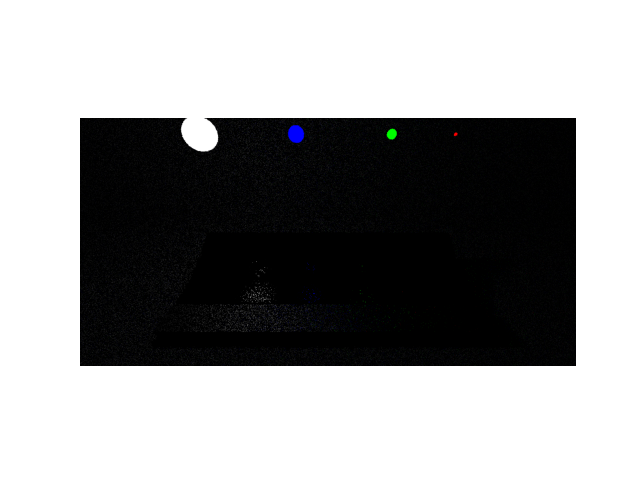
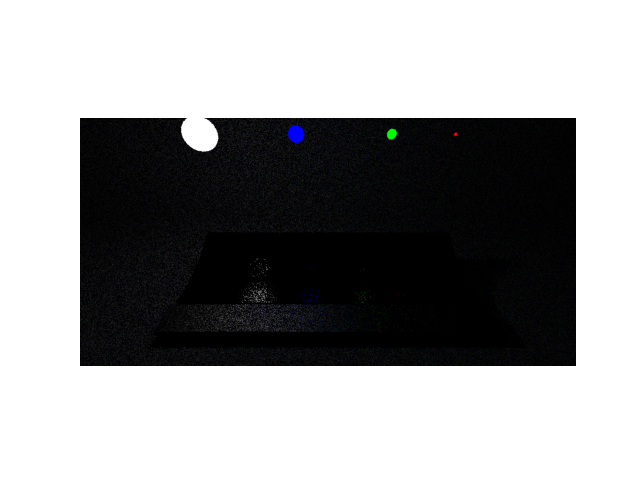
Added MIS

Changed region(s): [[0.3125, 0.5938, 0.5, 0.6875]]

diff --git a/A3/A3_codebase/taichi_tracer/renderer.py b/A3/A3_codebase/taichi_tracer/renderer.py
@@ -198,7 +198,7 @@ class A2Renderer:
 
             # Check for direct hit on light
             if material.Ke.norm() > 0:
-                color = material.Ke  # TODO check for correctness
+                color = material.Ke
 
             else:
                 shading_point = ray.origin + ray.direction * hit_data.distance  # find intersection point
@@ -258,7 +258,7 @@ class A2Renderer:
                         color = l_e * BRDF.evaluate_brdf_factor(material, w_i, normal)
 
                 # Shadow ray occluded by mesh light
-                else:  # TODO check for correctness
+                else:
                     shadow_material = self.scene_data.material_library.materials[shadow_hit_data.material_id]
                     if shadow_material.Ke.norm() > 0:
                         l_e = shadow_material.Ke
@@ -426,13 +426,12 @@ class A3Renderer:
         color = tm.vec3(0.)
 
         if self.sample_mode[None] == int(self.SampleMode.UNIFORM) or self.sample_mode[None] == int(self.SampleMode.BRDF):
-            # Uniform or BRDF just calls the A2 renderer
-            # TODO: Check if A2 renderer is complete
+            # Call A2 renderer
             color = self.a2_renderer.shade_ray(ray)
+
         else:
             if self.sample_mode[None] == int(self.SampleMode.LIGHT):
 
-                # TODO: Implement Light Importance Sampling
                 hit_data = self.scene_data.ray_intersector.query_ray(ray)
 
                 if hit_data.is_hit:
@@ -454,10 +453,7 @@ class A3Renderer:
                         # Get shadow hit data
                         shadow_hit_data = self.scene_data.ray_intersector.query_ray(shadow_ray)
 
-                        if not shadow_hit_data.is_hit:
-                            pass
-
-                        else:
+                        if shadow_hit_data.is_hit:
                             shadow_hit_material = self.scene_data.material_library.materials[shadow_hit_data.material_id]
 
                             if shadow_hit_material.Ke.norm() > 0 and shadow_hit_data.triangle_id == triangle_id:
@@ -467,20 +463,13 @@ class A3Renderer:
                                 light_cos = tm.max(tm.dot(shadow_hit_data.normal, -w_i), 0)
                                 p_light = self.scene_data.mesh_light_sampler.evaluate_probability()
 
-                                shadow_hit_point = shadow_ray.origin + shadow_ray.direction * shadow_hit_data.distance
-                                distance = tm.pow((hit_point - shadow_hit_point).norm(), 2)
-
-                                color = l_e * f_r * hit_cos * light_cos / (p_light * distance)
+                                color = l_e * f_r * hit_cos * light_cos / (p_light * (shadow_hit_data.distance ** 2))
 
                 else:
-                    # TODO how to shade? using same computation as BRDF?
-                    # l_e = self.scene_data.environment.query_ray(ray)
-                    # f_r = BRDF.evaluate_brdf()
 
                     color = self.scene_data.environment.query_ray(ray)
 
             if self.sample_mode[None] == int(self.SampleMode.MIS):
-                pass
                 hit_data = self.scene_data.ray_intersector.query_ray(ray)
 
                 if hit_data.is_hit:
@@ -495,11 +484,12 @@ class A3Renderer:
                         hit_point = ray.origin + ray.direction * hit_data.distance
                         hit_material = self.scene_data.material_library.materials[hit_data.material_id]
 
-                        # TODO Sample incident direction depending on MIS probability
                         u = ti.random()
                         w_i = tm.vec3(0)
-                        if u < self.mis_plight:
-                            w_i, triangle_id = self.scene_data.mesh_light_sampler.sample_mesh_lights()
+                        triangle_id = 0
+
+                        if u < self.mis_plight[None]:
+                            w_i, triangle_id = self.scene_data.mesh_light_sampler.sample_mesh_lights(hit_point)
                         else:
                             w_i = BRDF.sample_direction(hit_material, -ray.direction, hit_data.normal)
 
@@ -510,26 +500,32 @@ class A3Renderer:
 
                         shadow_hit_data = self.scene_data.ray_intersector.query_ray(shadow_ray)
 
-                        # TODO implement shading for LIS
-                        # TODO implement shading for BRDF
+                        l_e = tm.vec3(0)
                         if not shadow_hit_data.is_hit:
-                            # TODO query environment. Should the computation be the same for LIS and BRDF?
                             l_e = self.scene_data.environment.query_ray(ray)
 
                         else:
                             shadow_hit_material = self.scene_data.material_library.materials[shadow_hit_data.material_id]
 
-                            # TODO check if occluded by mesh light
                             if shadow_hit_material.Ke.norm() > 0:
-                                if u < self.mis_plight:
-                                    # TODO if LIS and occluded by mesh light and triangles match
+                                if u < self.mis_plight[None]:
                                     if shadow_hit_data.triangle_id == triangle_id:
-                                        pass
+                                        l_e = shadow_hit_material.Ke
                                 else:
-                                    # TODO
-                                    pass
-                            
-                            pass
+                                    l_e = shadow_hit_material.Ke
+
+                        f_r = BRDF.evaluate_brdf(hit_material, -ray.direction, w_i, hit_data.normal)
+                        hit_cos = tm.max(tm.dot(hit_data.normal, w_i), 0)
+                        p_mis = self.mis_plight[None] * self.scene_data.mesh_light_sampler.evaluate_probability() + self.mis_pbrdf[None] * BRDF.evaluate_probability(hit_material, -ray.direction, w_i, hit_data.normal)
+
+                        if shadow_hit_data.is_hit:
+                            # Compute final color
+                            if u < self.mis_plight[None]:
+                                light_cos = tm.max(tm.dot(shadow_hit_data.normal, -w_i), 0)
+                                color = l_e * f_r * hit_cos * light_cos / (p_mis * (shadow_hit_data.distance ** 2))
+                            else:
+
+                                color = l_e * f_r * hit_cos / p_mis
 
                 else:
                     color = self.scene_data.environment.query_ray(ray)

diff --git a/A3/A3_codebase/taichi_tracer/sampler.py b/A3/A3_codebase/taichi_tracer/sampler.py
@@ -210,7 +210,6 @@ class MeshLightSampler:
 
     @ti.func
     def compute_triangle_area(self, v0: tm.vec3, v1: tm.vec3, v2: tm.vec3) -> float:
-        # TODO: Compute Area of a triangle given the 3 vertices
         ab = v1 - v0
         ac = v2 - v0
 
@@ -218,55 +217,36 @@ class MeshLightSampler:
 
     @ti.kernel
     def compute_cdf(self):
-        pass
-        # TODO: Compute the CDF of your emissive triangles
-        # self.cdf[i] = ...
 
         cdf_sum = 0.0
         ti.loop_config(serialize=True)
         for i in range(self.n_emissive_triangles):
-            cdf_sum += self.emissive_triangle_areas[i] / self.total_emissive_area[None]
-            self.cdf[i] = cdf_sum
+            cdf_sum += self.emissive_triangle_areas[i]
+            self.cdf[i] = cdf_sum / self.total_emissive_area[None]
 
     @ti.func
     def sample_emissive_triangle(self) -> int:
-        # TODO: Sample an emissive triangle using the CDF
-        # return the **index** of the triangle
-        #
-        # placeholder
-
         xi_triangle = ti.random()  # get random variable [0, 1]
 
-        # Binary search - Algorithm inspired by GeeksForGeeks binary search implementation
-        # low = 0
-        # high = self.n_emissive_triangles - 1
-        #
-        # while low <= high:
-        #     mid = low + (high - low) // 2
-        #
-        #     if self.cdf[mid] >= xi_triangle:  # Look to the left of mid
-        #         high = mid
-        #     else:
-        #         low = mid + 1  # Look to the right of mid
+        # Binary search over cdf values
+        left = 0
+        right = self.n_emissive_triangles - 1
+        while left < right:
+            mid = (left + right) // 2
+            if self.cdf[mid] >= xi_triangle:
+                right = mid
+            else:
+                left = mid + 1
 
-        # TODO replace with binary search
-        index = 0
-        for i in range(self.n_emissive_triangles):
-            if self.cdf[i] >= xi_triangle:
-                index = i
-                break
-
-        return index
+        return left
 
     @ti.func
     def evaluate_probability(self) -> float:
-        # TODO: return the probability of a sample
         return 1.0 / self.total_emissive_area[None]
 
     @ti.func
     def sample_mesh_lights(self, hit_point: tm.vec3):
         sampled_light_triangle_idx = self.sample_emissive_triangle()
-        # sampled_light_triangle_idx = 0  TODO debugging
 
         sampled_light_triangle = self.emissive_triangle_ids[sampled_light_triangle_idx]
 
@@ -281,7 +261,6 @@ class MeshLightSampler:
         # https://www.pbr-book.org/4ed/Shapes/Triangle_Meshes#Sampling
         # https://www.pbr-book.org/4ed/Shapes/Triangle_Meshes#SampleUniformTriangle
 
-        # TODO: Sample a direction towards your mesh light
         # given your sampled triangle vertices
         # generate random barycentric coordinates
         xi_0 = ti.random()
@@ -290,7 +269,7 @@ class MeshLightSampler:
         b0 = 0.0
         b1 = 0.0
 
-        if xi_0 > xi_1:
+        if xi_0 < xi_1:
             b0 = xi_0 / 2.0
             b1 = xi_1 - b0
         else:
@@ -299,12 +278,9 @@ class MeshLightSampler:
 
         b2 = 1.0 - b0 - b1
 
-        # calculate the light direction
-        # light direction = (point on light - hit point)
+        # calculate the light direction (normalized)
         sampled_point = b0 * v0 + b1 * v1 + b2 * v2
         light_direction = tm.normalize(sampled_point - hit_point)
-
-        # don't forget to normalize!
 
         return light_direction, sampled_light_triangle
 

diff --git a/A3/A3_codebase/interactive/A3.py b/A3/A3_codebase/interactive/A3.py
@@ -14,7 +14,7 @@ from taichi_tracer.scene_data_loader import SceneName, EnvironmentName, load_sce
 
 
 def main():
-    scene_data = load_scene_data(SceneName.VEACH, EnvironmentName.STUDIO)
+    scene_data = load_scene_data(SceneName.VEACH, EnvironmentName.BLACK)
     renderer = A3Renderer(scene_data=scene_data, width=1024, height=512)
     window = ti.ui.Window("Interactive Renderer", res=renderer.canvas.shape)
     controller = CameraController(renderer.camera, window)
